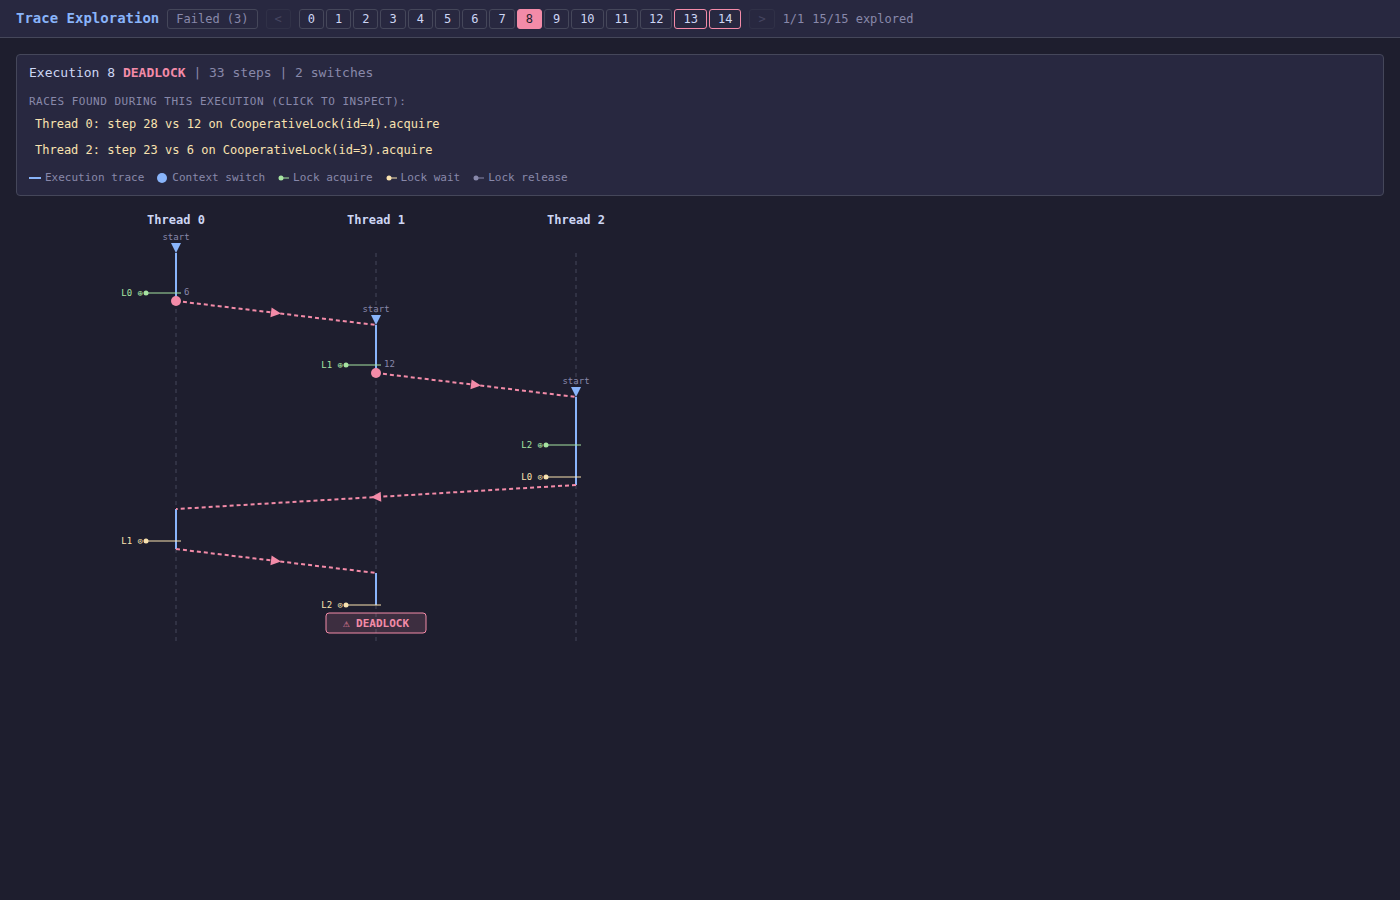
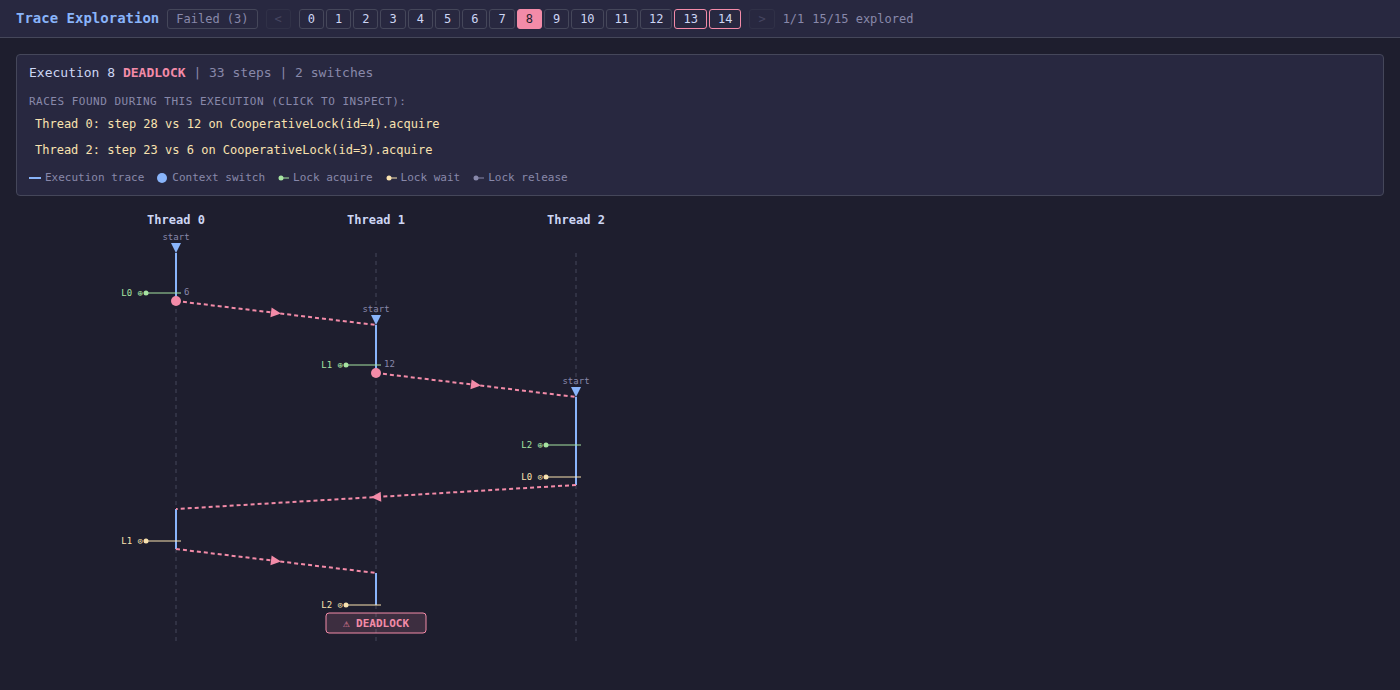
Crop screenshot more aggressively by clipping to actual content bounds
Previously the screenshot captured the full 1400x900 viewport, leaving
large empty margins on the right and bottom. Now the script walks the
shadow DOM to find the bounding box of all visible elements and clips
the screenshot to that area (plus a small padding).

Also adds automatic discovery of the cached chromium binary so the
script works when the installed playwright version differs from the
cached browser revision.

https://claude.ai/code/session_01PLaQWgTxeoDDME3Jpncum6

diff --git a/scripts/screenshot_deadlock.py b/scripts/screenshot_deadlock.py
@@ -39,8 +39,15 @@ def _take_screenshot(html_path: str, output_path: str) -> None:
     """Open the HTML report in a headless browser and screenshot the deadlock view."""
     from playwright.sync_api import sync_playwright
 
+    import glob as _glob
+
+    # Find a cached chromium binary (playwright may have a different version than installed).
+    _chromium_candidates = sorted(_glob.glob(os.path.expanduser("~/.cache/ms-playwright/chromium-*/chrome-linux/chrome")))
+    _executable = _chromium_candidates[-1] if _chromium_candidates else None
+
     with sync_playwright() as p:
-        browser = p.chromium.launch()
+        launch_kwargs: dict = {"executable_path": _executable} if _executable else {}
+        browser = p.chromium.launch(**launch_kwargs)
         page = browser.new_page(viewport={"width": 1400, "height": 900})
 
         file_url = f"file://{os.path.abspath(html_path)}"
@@ -82,9 +89,37 @@ def _take_screenshot(html_path: str, output_path: str) -> None:
         }""")
         page.wait_for_timeout(1000)
 
-        # Take screenshot of the viewport
+        # Determine the actual content bounding box by inspecting shadow DOM elements.
+        # We want just the nav panel + timeline SVG area, cropped tightly.
+        content_bounds = page.evaluate("""() => {
+            const report = document.querySelector('dpor-report');
+            if (!report || !report.shadowRoot) return null;
+
+            let maxX = 0, maxY = 0;
+            const padding = 16;
+
+            // Walk all elements in each shadow root and accumulate the bounding rect.
+            function expandBounds(root) {
+                for (const el of root.querySelectorAll('*')) {
+                    const r = el.getBoundingClientRect();
+                    if (r.width > 0 && r.height > 0) {
+                        maxX = Math.max(maxX, r.right);
+                        maxY = Math.max(maxY, r.bottom);
+                    }
+                    if (el.shadowRoot) expandBounds(el.shadowRoot);
+                }
+            }
+            expandBounds(report.shadowRoot);
+
+            if (maxX === 0 || maxY === 0) return null;
+            return {x: 0, y: 0, width: maxX + padding, height: maxY + padding};
+        }""")
+
         os.makedirs(os.path.dirname(output_path) or ".", exist_ok=True)
-        page.screenshot(path=output_path, full_page=False)
+        if content_bounds:
+            page.screenshot(path=output_path, full_page=False, clip=content_bounds)
+        else:
+            page.screenshot(path=output_path, full_page=False)
 
         browser.close()
 
